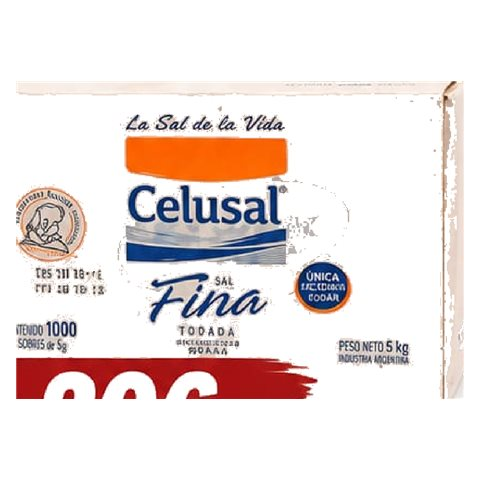
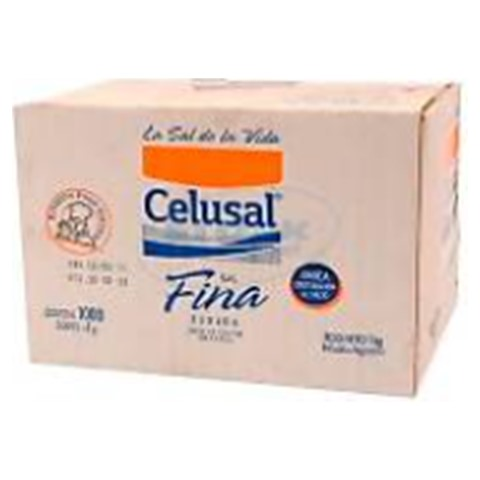
OTM: fotos de mejor calidad Celusal y Genser

diff --git a/catalogo-otm.html b/catalogo-otm.html
@@ -137,7 +137,7 @@ const esc = s => String(s).replace(/[&<>"]/g, c => ({'&':'&amp;','<':'&lt;','>':
 const fecha = iso => iso ? iso.split('-').reverse().join('/') : '';
 const limpiar = d => d.replace(/\s+/g,' ').trim();
 const marca = d => ((d.match(/CELUSAL|GENSER|TOSCANA|MENOYO|LIVIAN|ALCAZAR|LED|DOM|TAYAL|GRAN JUICIO|TALITAS|HARINA|MAN[IÍ]/i) || ['OTM'])[0].toUpperCase());
-const FOTOS_V = '5';   // cambiar cuando se reemplazan las fotos, para que el navegador no muestre las viejas
+const FOTOS_V = '6';   // cambiar cuando se reemplazan las fotos, para que el navegador no muestre las viejas
 const norm = s => String(s).normalize('NFD').replace(/[̀-ͯ]/g,'').toLowerCase();
 // Segmentos tildados: ninguno = se ven todos; uno o varios = solo esos (se combinan con el buscador)
 const elegidos = new Set();
